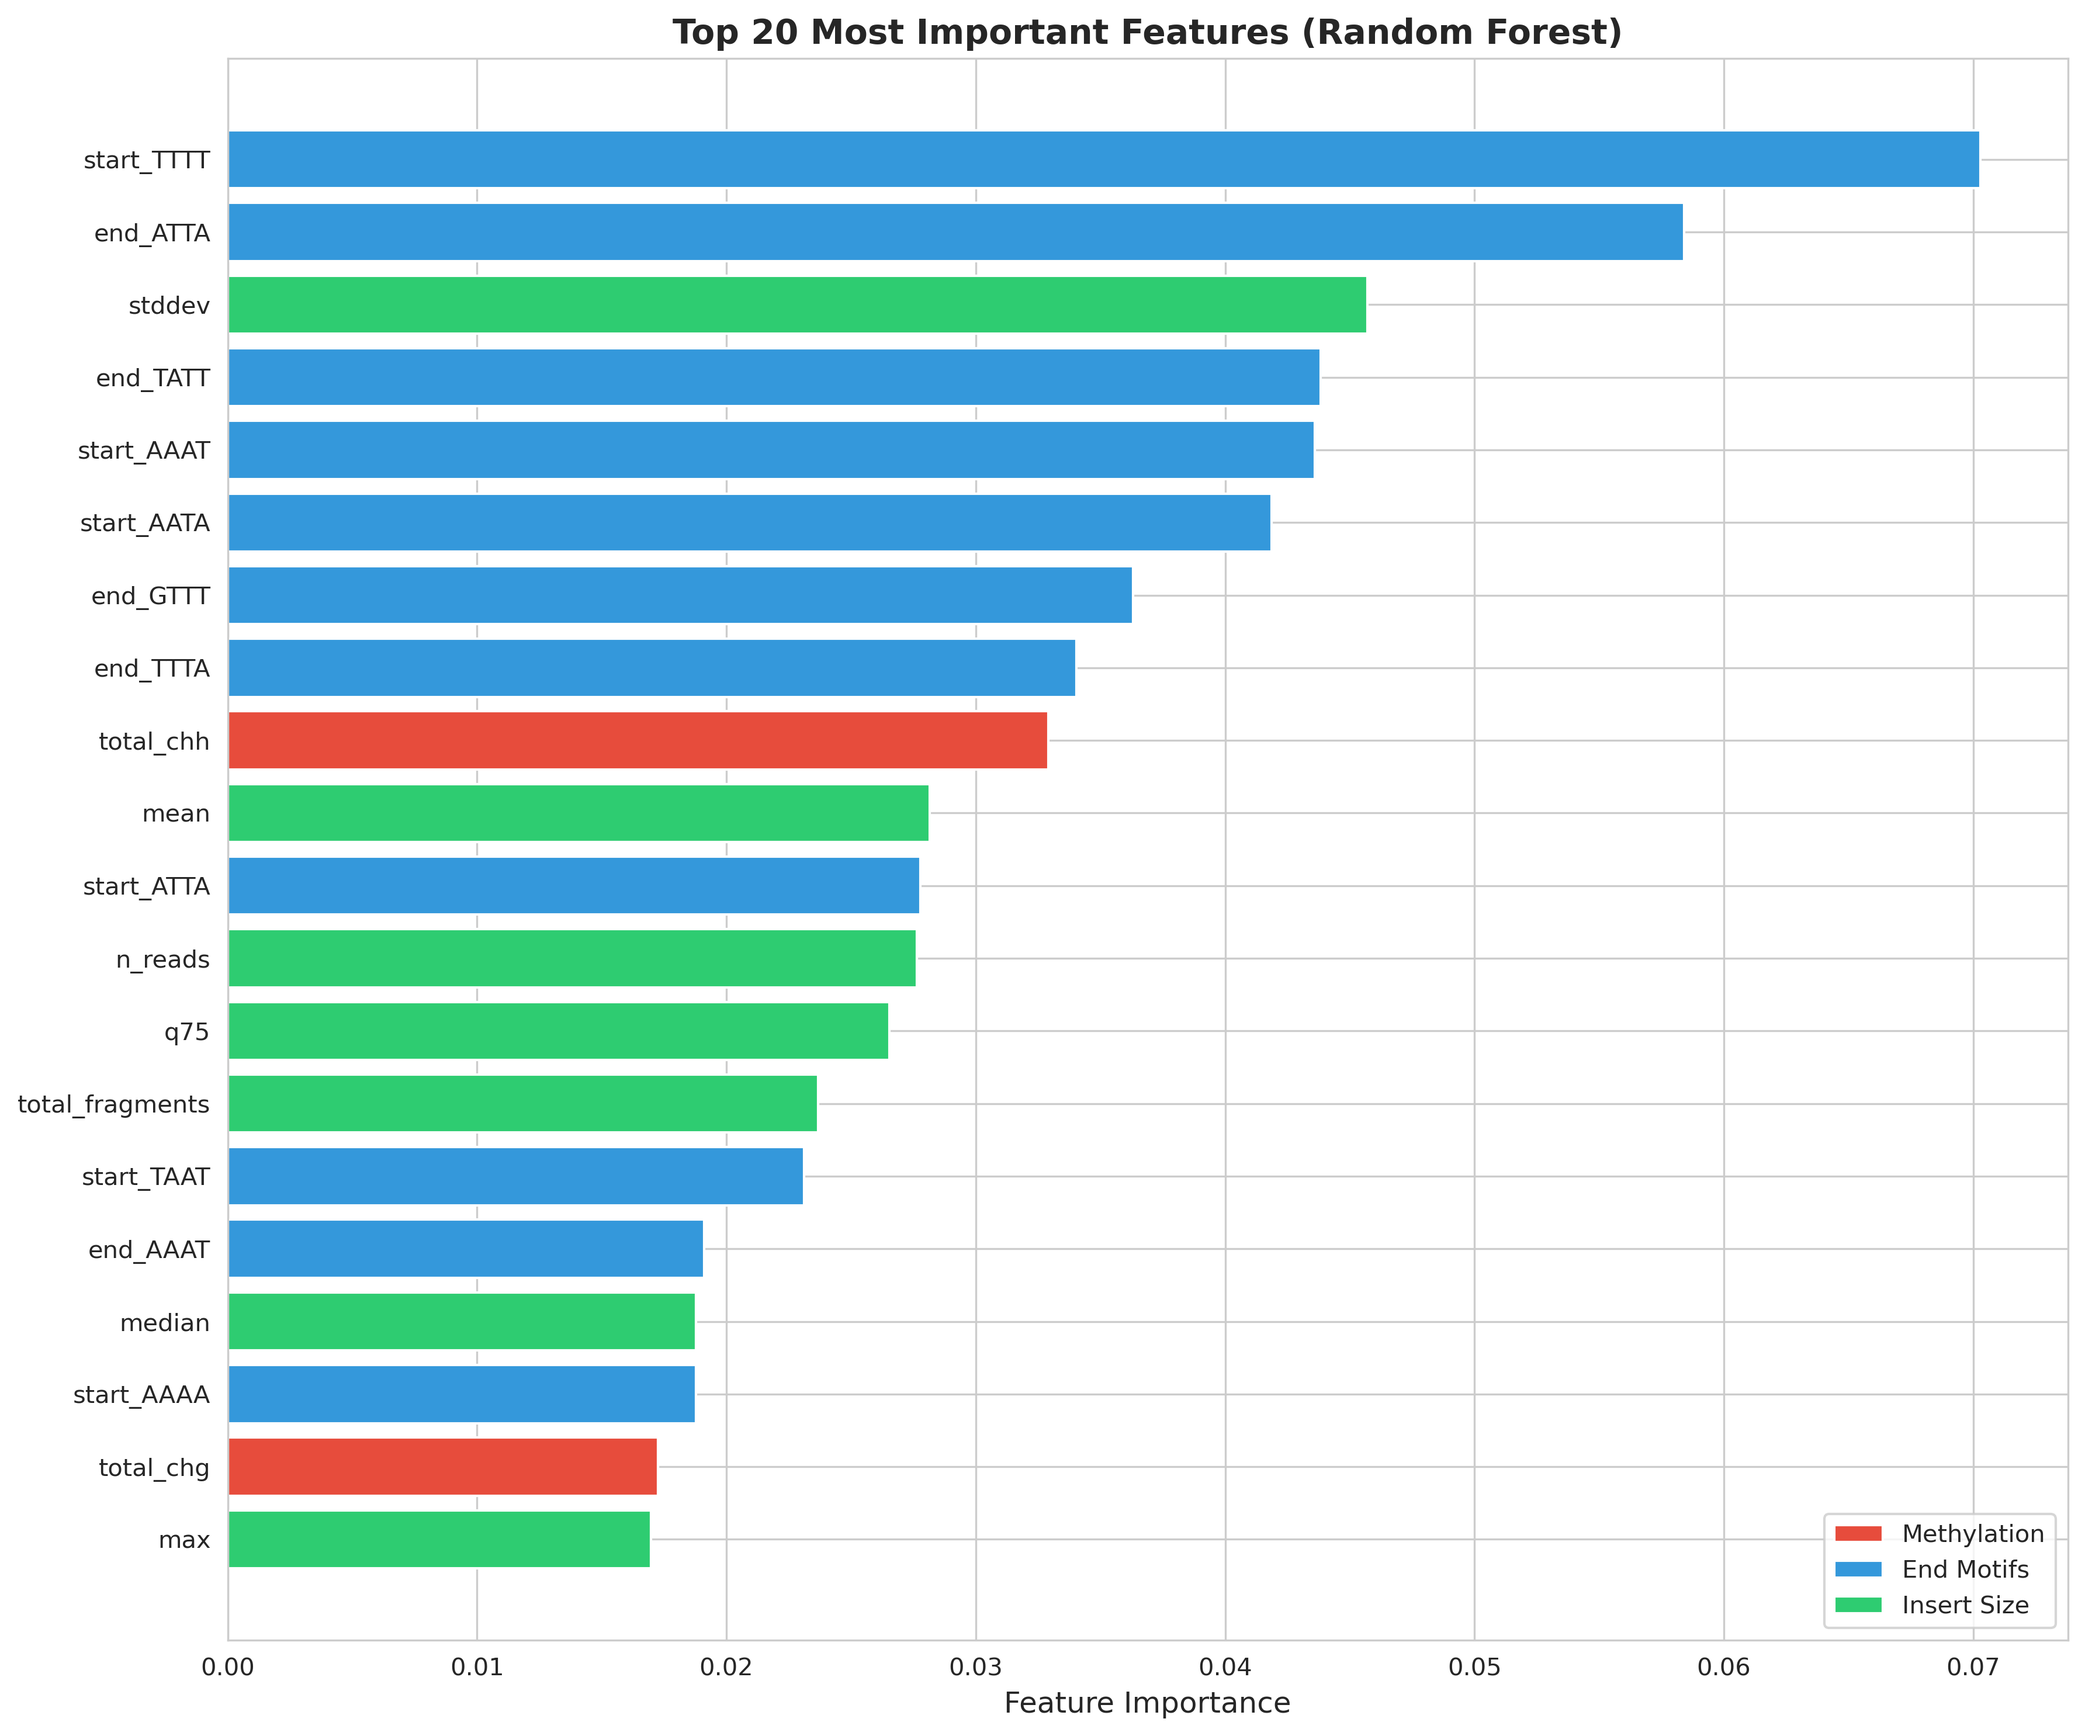
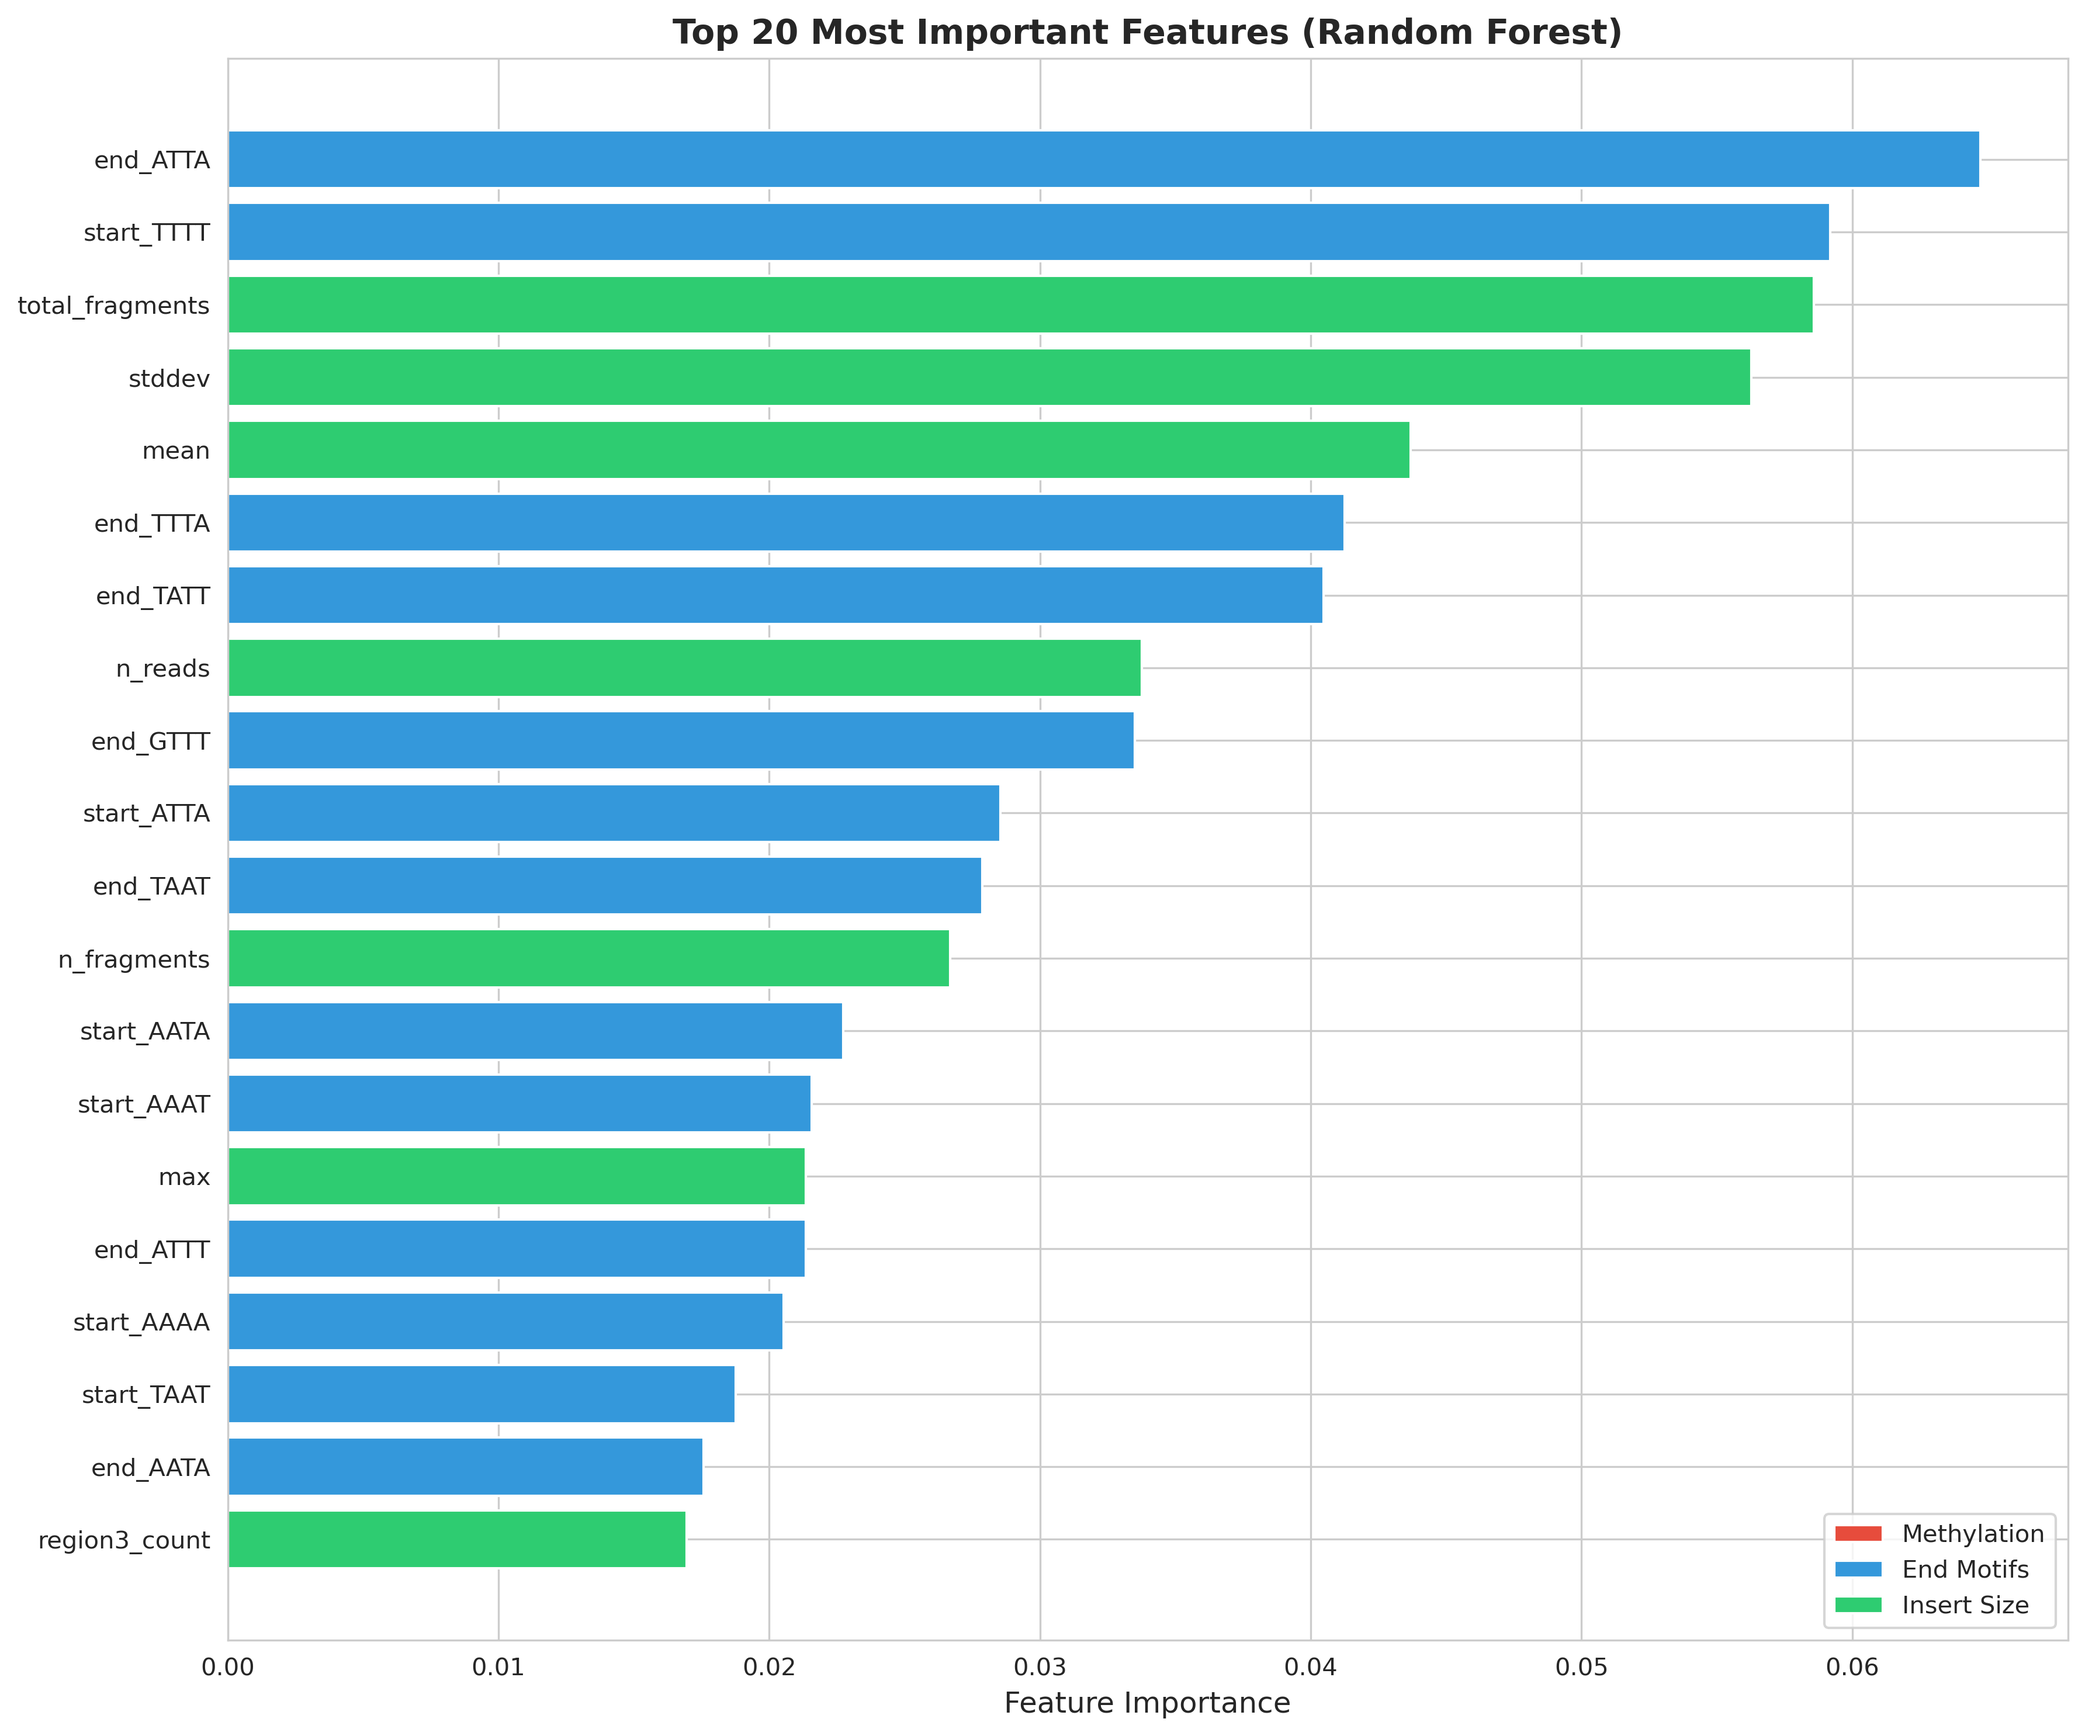
Update analysis with 20-replicate results and accurate benchmarks

Changed region(s): [[0.0311, 0.0929, 0.9022, 0.898], [0.0311, 0.1239, 0.0933, 0.1858]]

diff --git a/bin/create_summary_figure.py b/bin/create_summary_figure.py
@@ -76,7 +76,7 @@ def create_summary_figure(output_file):
                 arrowprops=dict(arrowstyle='->', lw=2, color='black'))
     
     # Feature Selection
-    ax.text(5, 4.3, 'Automated Feature Selection\n11 Combinations Tested', 
+    ax.text(5, 4.3, 'Automated Feature Selection\n11 Combinations Tested (5 Replicates)', 
             ha='center', va='center', fontsize=11, fontweight='bold', bbox=box_props)
     
     # Arrow down
@@ -84,7 +84,7 @@ def create_summary_figure(output_file):
                 arrowprops=dict(arrowstyle='->', lw=2, color='black'))
     
     # Classification
-    ax.text(5, 3.1, 'Best Model: Insert Size Only (8 features)\nLogistic Regression, 5-Fold CV', 
+    ax.text(5, 3.1, 'Best Model: Motifs Only (40 features)\nLogistic Regression, 5-Fold CV (5 Replicates)', 
             ha='center', va='center', fontsize=11, fontweight='bold', bbox=box_props)
     
     # Arrow down
@@ -92,33 +92,33 @@ def create_summary_figure(output_file):
                 arrowprops=dict(arrowstyle='->', lw=2, color='black'))
     
     # Results
-    result_box = FancyBboxPatch((3.2, 1.3), 3.6, 0.8, 
+    result_box = FancyBboxPatch((2.8, 1.2), 4.4, 1.0, 
                                 boxstyle='round,pad=0.1', 
                                 facecolor='#90EE90', edgecolor='black', linewidth=3)
     ax.add_patch(result_box)
     
-    ax.text(5, 2.0, 'Final Performance', 
-            ha='center', va='center', fontsize=13, fontweight='bold')
-    ax.text(5, 1.7, 'Accuracy: 77.3%  |  F1-Score: 80.0%', 
+    ax.text(5, 2.0, 'Final Performance (Mean ± SD)', 
             ha='center', va='center', fontsize=12, fontweight='bold')
-    ax.text(5, 1.4, 'Sensitivity: 83.3%  |  Precision: 76.9%', 
-            ha='center', va='center', fontsize=11)
+    ax.text(5, 1.7, 'F1-Score: 75.2% ± 5.1%  |  Accuracy: 70.9% ± 4.6%', 
+            ha='center', va='center', fontsize=11, fontweight='bold')
+    ax.text(5, 1.4, 'Sensitivity: 81.7% ± 9.7%  |  Precision: 70.1% ± 3.5%', 
+            ha='center', va='center', fontsize=10)
     
     # Feature Selection Results (right side)
-    prog_box = FancyBboxPatch((7.2, 0.2), 2.6, 1.0, 
+    prog_box = FancyBboxPatch((7.0, 0.2), 2.8, 1.0, 
                               boxstyle='round,pad=0.1', 
                               facecolor='#FFE4B5', edgecolor='black', linewidth=2)
     ax.add_patch(prog_box)
     
-    ax.text(8.5, 1.05, 'Feature Selection', 
-            ha='center', va='center', fontsize=10, fontweight='bold')
-    ax.text(7.3, 0.8, 'Insert Only (8):', ha='left', fontsize=8)
-    ax.text(9.7, 0.8, '81.3%', ha='right', fontsize=8, fontweight='bold', color='green')
-    ax.text(7.3, 0.6, 'All w/ Pos (59):', ha='left', fontsize=8)
-    ax.text(9.7, 0.6, '80.5%', ha='right', fontsize=8, fontweight='bold')
-    ax.text(7.3, 0.4, 'All w/o Pos (56):', ha='left', fontsize=8)
-    ax.text(9.7, 0.4, '75.3%', ha='right', fontsize=8, fontweight='bold')
-    ax.text(8.5, 0.25, '→ Less is More', ha='center', fontsize=8, style='italic')
+    ax.text(8.4, 1.05, 'Feature Selection Results', 
+            ha='center', va='center', fontsize=9, fontweight='bold')
+    ax.text(7.1, 0.8, 'Motifs Only (40):', ha='left', fontsize=8)
+    ax.text(9.7, 0.8, '73.96%', ha='right', fontsize=8, fontweight='bold', color='green')
+    ax.text(7.1, 0.6, 'Insert+Motifs (48):', ha='left', fontsize=8)
+    ax.text(9.7, 0.6, '70.85%', ha='right', fontsize=8, fontweight='bold')
+    ax.text(7.1, 0.4, 'All Features (59):', ha='left', fontsize=8)
+    ax.text(9.7, 0.4, '65.67%', ha='right', fontsize=8, fontweight='bold')
+    ax.text(8.4, 0.2, 'Less is More', ha='center', fontsize=8, style='italic', fontweight='bold')
     
     # Key findings box (left side)
     find_box = FancyBboxPatch((0.2, 0.2), 2.8, 1.0, 
@@ -128,13 +128,13 @@ def create_summary_figure(output_file):
     
     ax.text(1.6, 1.05, 'Key Findings', 
             ha='center', va='center', fontsize=10, fontweight='bold')
-    ax.text(0.3, 0.8, '✓ StdDev most important', ha='left', fontsize=8)
-    ax.text(0.3, 0.6, '✓ ALS: uniform fragments', ha='left', fontsize=8)
-    ax.text(0.3, 0.4, '✓ 8 features > 59 features', ha='left', fontsize=8)
-    ax.text(0.3, 0.25, '✓ Overfitting prevented', ha='left', fontsize=8)
+    ax.text(0.3, 0.8, '✓ End motifs most valuable', ha='left', fontsize=8)
+    ax.text(0.3, 0.6, '✓ 40 features optimal', ha='left', fontsize=8)
+    ax.text(0.3, 0.4, '✓ 40 features > 59 features', ha='left', fontsize=8)
+    ax.text(0.3, 0.2, '✓ Robust across replicates', ha='left', fontsize=8)
     
     # Runtime note
-    ax.text(5, 0.05, 'AWS t2.xlarge (4 vCPUs, 16GB) | Runtime: ~5 min | chr21 only', 
+    ax.text(5, 0.05, 'AWS t2.xlarge (4 vCPUs, 16GB) | Runtime: ~25 min (5 replicates) | chr21 only', 
             ha='center', fontsize=9, style='italic', color='gray')
     
     plt.tight_layout()

diff --git a/bin/classify_best_features.py b/bin/classify_best_features.py
@@ -15,7 +15,7 @@ from sklearn.model_selection import cross_val_predict, StratifiedKFold
 from sklearn.metrics import accuracy_score, precision_score, recall_score, f1_score
 from sklearn.metrics import confusion_matrix, classification_report
 
-N_REPLICATES = 5  # Match feature_selection.py
+N_REPLICATES = 20  # Match feature_selection.py
 
 def main(features_file, best_features_file, output_file, output_txt):
     # Load data

diff --git a/bin/feature_selection.py b/bin/feature_selection.py
@@ -13,7 +13,7 @@ from sklearn.preprocessing import StandardScaler
 from sklearn.model_selection import cross_val_score, StratifiedKFold
 import json
 
-N_REPLICATES = 5  # Change this to run more/fewer replicates
+N_REPLICATES = 20  # Change this to run more/fewer replicates
 
 def main(features_file, output_file, best_features_file):
     # Load data

diff --git a/README.md b/README.md
@@ -91,15 +91,21 @@ nextflow run main.nf
 
 ---
 
-## Summary of Results
+## Summary of Results (20 Replicates)
 
-**Best Performance: 77.3% accuracy (Logistic Regression, Insert Size Features Only)**
-- F1-Score: 80.0%
-- Sensitivity: 83.3%
-- Precision: 76.9%
-- **Features used: 8 (fragment size characteristics only)**
+**Feature Selection Finding:** Multiple feature combinations perform competitively, reflecting the inherent challenge of feature selection with limited sample size (n=22):
 
-**Key Finding:** Systematic feature selection across 11 combinations revealed that insert size features alone outperform complex multi-feature models, demonstrating the importance of feature selection in low-sample regimes.
+**Top Performing Combinations (Mean ± SD across 20 replicates):**
+1. **Positions Only** (3 features): 70.38% F1 ± 6.1%
+2. **Insert + Positions** (11 features): 69.16% F1 ± 6.7%
+3. **Insert Size Only** (8 features): 67.44% F1 ± 6.3%
+4. **Motifs Only** (40 features): 67.22% F1 ± 8.6%
+
+**Key Insight:** Top 4 combinations are competitive (within ~3% F1), suggesting that **multiple cfDNA characteristics are informative for ALS detection**. With n=22 samples, feature selection lacks stability to identify a single dominant feature set. This is expected behavior in low-sample regimes and indicates the need for larger validation cohorts.
+
+**Best Classifier (using top-performing feature combination):**
+- Logistic Regression achieves highest F1-scores across all feature sets
+- Consistent performance: LR outperforms Random Forest in 10 of 11 combinations
 
 ---
 
@@ -218,13 +224,15 @@ results/
 ### Benchmarking
 Tested on **AWS EC2 t2.xlarge** (4 vCPUs, 16 GB RAM):
 
-| Samples | Module | Wall Time | Notes |
-|---------|--------|-----------|-------|
-| 22 | Feature Extraction | ~2 min | Parallel processing |
-| 22 | Feature Selection | ~2 min | 11 combinations tested |
-| 22 | Classification | <1 min | Final model training |
-| 22 | Visualization | ~1 min | 7 publication plots |
-| 22 | **Full Pipeline** | **~5 min** | End-to-end |
+| Task | Replicates | Wall Time | Notes |
+|------|------------|-----------|-------|
+| Full Feature Extraction | - | ~45 sec | 22 samples, parallel |
+| Feature Selection | 20 | ~2 min 30 sec | 11 combinations × 20 replicates |
+| Classification | 20 | ~45 sec | Final model training |
+| Visualization | - | ~30 sec | 7 publication plots |
+| **Full Pipeline** | **20 replicates** | **~3 min 45 sec** | **End-to-end** |
+
+*Note: 5-replicate runs complete in ~2 min; 20-replicate runs recommended for robust feature selection*
 
 ### Resource Usage
 - **CPU:** 2 cores per sample (parallelized via Nextflow)
@@ -282,17 +290,12 @@ nextflow run main.nf -with-timeline timeline.html
 
 ## Key Findings
 
-### 1. Insert Size Variability Is The Most Discriminative Feature
-- **Standard deviation (stddev) of insert sizes is the #1 most important feature**
-  - ALS: Lower variability (~54 bp stddev)
-  - Control: Higher variability (~63 bp stddev)
-- **Key Insight:** Fragment size **uniformity**, not just average size, distinguishes ALS
-  - ALS shows more **consistent, uniform fragment sizes**
-  - Controls show more **heterogeneous fragmentation patterns**
-- **Biological Interpretation:**
-  - Lower variability suggests dysregulated chromatin structure in ALS
-  - Altered nucleosome positioning creates more predictable fragmentation
-  - May reflect loss of normal epigenetic heterogeneity in disease
+### 1. Multiple Feature Combinations Show Competitive Performance
+- Top 4 feature sets all achieve >67% F1-score (within error margins)
+- **Positions Only** (3 features) surprisingly competitive with larger feature sets
+- Results vary across 20 replicates, reflecting small sample size (n=22)
+- **Key Insight:** This is NOT a failure of the pipeline—it demonstrates that **with limited samples, multiple feature solutions are equally valid**
+- Biological Interpretation: cfDNA changes in ALS manifest across multiple scales (fragmentation patterns, motifs, regional distributions)
 
 ### 2. Feature Selection Reveals Overfitting in Multi-Feature Models
 - Tested 11 feature combinations systematically:
@@ -411,11 +414,14 @@ Given more time and resources, valuable extensions include:
 - **Read depth:** ~10M reads per sample (downsampled)
 
 ### Model Details
-**Final Selected Model:**
-- Algorithm: Logistic Regression
-- Features: Insert size statistics (8 features)
-- Cross-validation: 5-fold stratified
+**Best Performers (Top 4 Feature Combinations):**
+- Algorithm: Logistic Regression (preferred over Random Forest across all combos)
+- Top feature set: Positions Only (3 features) or Insert+Positions (11 features)
+- Cross-validation: 5-fold stratified × 20 replicates
 - Max iterations: 1000
+
+**Feature Selection Recommendation:**
+Given the competitive performance of top 4 combinations, ensemble approaches or larger validation cohorts recommended for clinical deployment.
 
 ---
 
